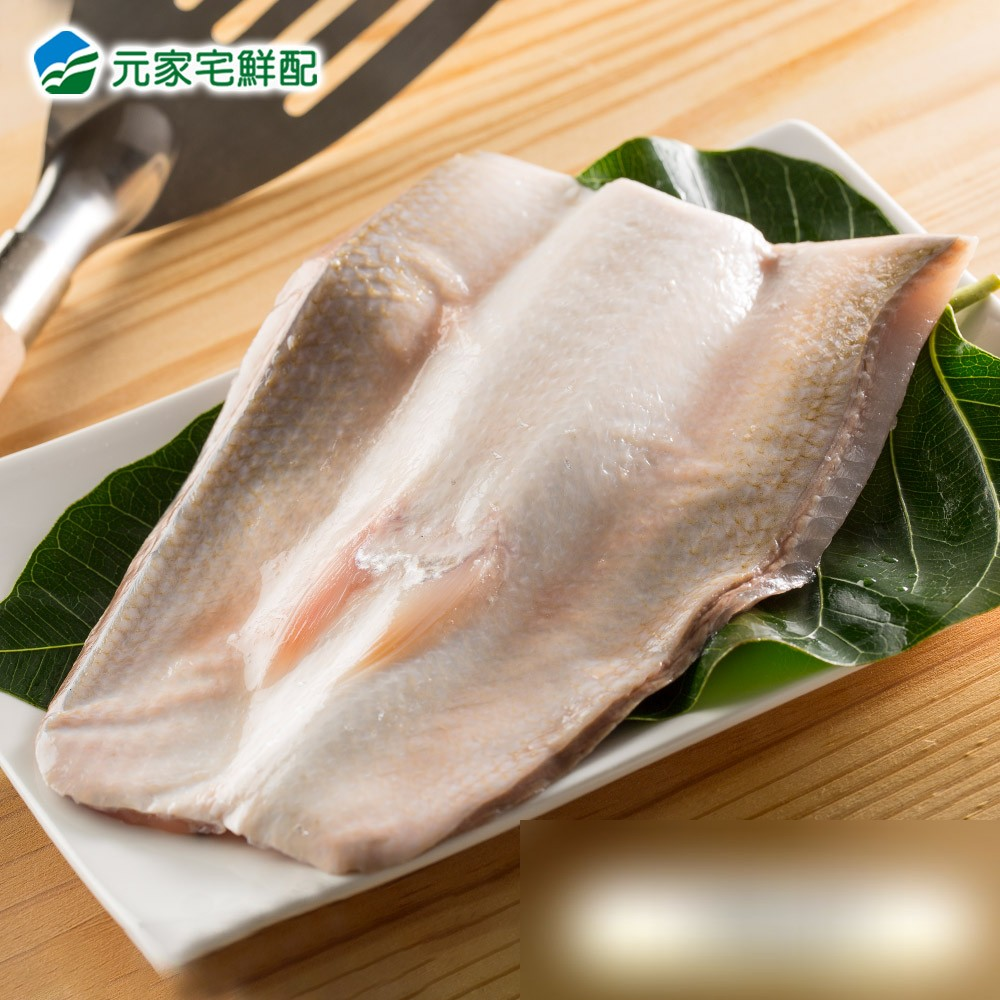
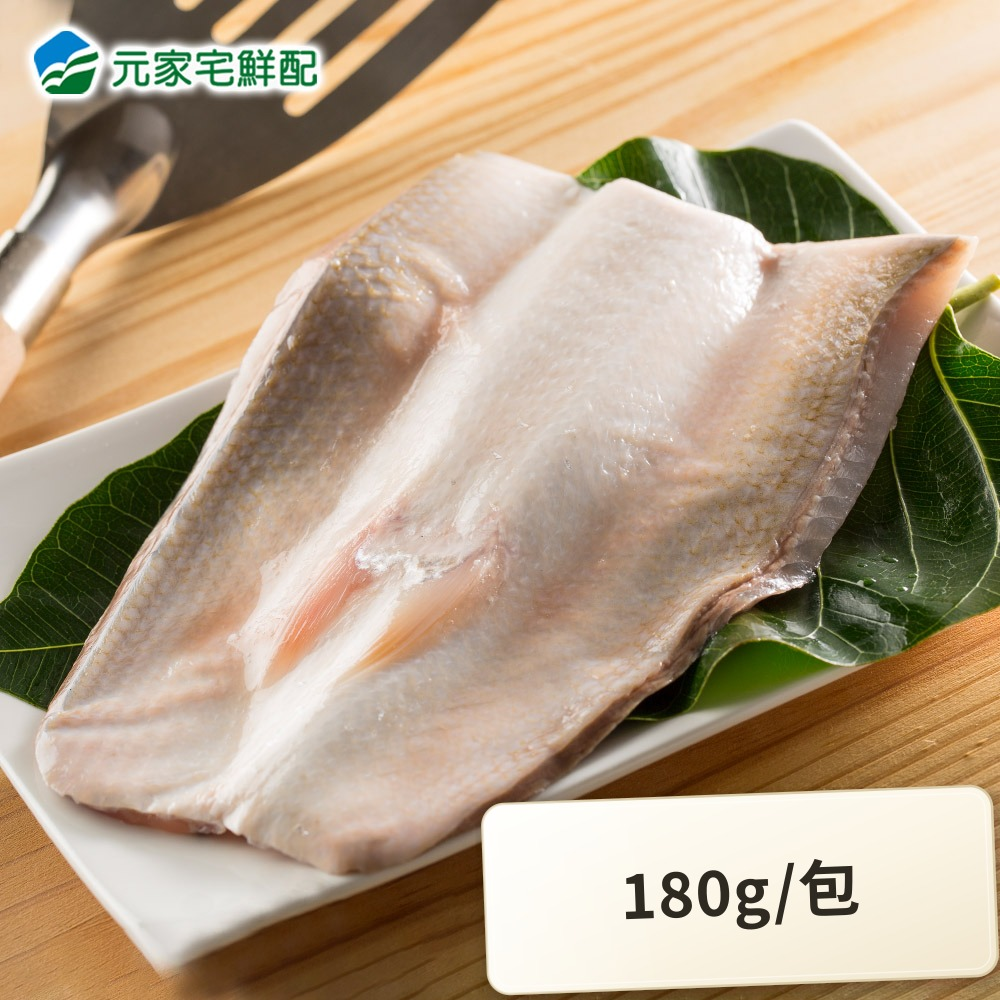
fix(b2c): 商品照片規格改用「規格貼紙覆蓋」，取代模糊處理
使用者回饋模糊處理看起來像「把錯誤的東西蓋起來」，不夠像真正商家會做的
標示更正，要求改用「像實體貼紙貼上去」的方式取代舊的錯誤重量。

處理方式：
- 從 git 歷史（954cf8a，模糊修正之前的原始版本）還原 4 張照片
  （虱目魚肚／鮭魚菲力／天使紅蝦／蛤蜊）的原始像素，不是在已經模糊過的
  版本上疊圖——避免貼紙陰影落在模糊像素上、邊緣不自然。
- 唯一正確來源是資料庫（b2c_products.specification），沒有修改 seed
  data／商品名稱／商品描述，也沒有用猜測的數字：
  虱目魚肚 180g/包、鮭魚菲力 200g/包、天使紅蝦 500g/盒、蛤蜊 500g/包。
- 用 SVG 畫出貼紙圖層（米白色紙張漸層底、細邊框、柔和陰影 filter、
  1.4°~2.2° 輕微旋轉模擬手貼上去的自然感），轉成透明背景 PNG 後疊圖到
  原圖同一位置（右下角，原本錯誤重量色塊所在處）。貼紙只覆蓋該區域，
  沒有蓋到商品本體、「元家宅鮮配」品牌 logo 或商品名稱。
- 圖片本身尺寸完全不變（仍是 1000x1000），不是裁切、不是純色塊。

逐張人工核對過「貼紙是否完整遮住舊重量」（含邊界區域的放大檢查，確認
沒有殘留舊數字）與「貼紙上的重量是否與資料庫規格完全一致」，兩項都
確認通過。

驗證方式：修改的是 public/ 底下實際被網站載入的圖片來源（不是未使用的
副本），完成後在本機 production build 上用 cache-busting fetch 直接比對
「伺服器實際回傳的位元組」與「本機檔案」完全一致，並在
/products/taiwan-milkfish-belly 等 4 個實際商品頁面截圖核對畫面顯示的
規格貼紙内容。另外 pnpm lint／build／test:contracts:static 全過，
pnpm test:e2e:b2c（axe-core WCAG A/AA + 375px/768px）52/52 全過。

product-photos.ts 的 mismatchNote 同步更新，記錄這次改用貼紙覆蓋而非
模糊的決策與理由。

Changed region(s): [[0.465, 0.775, 1.0, 1.0]]

diff --git a/src/lib/product-photos.ts b/src/lib/product-photos.ts
@@ -28,20 +28,28 @@ import type { ProductImageRef } from "@/lib/types/product";
  * src/app/(b2c)/products/page.tsx、products/[slug]/page.tsx、
  * cart/cart-page-client.tsx）。
  *
- * 2026-09-10（使用者重新考慮，改為裁修照片）：文字揭露終究只是「事後說明」，
+ * 2026-09-10（第一次修正：模糊處理）：文字揭露終究只是「事後說明」，
  * 客人還是會先看到照片上印著跟頁面文字不同的數字，容易先入為主覺得網站
- * 資料錯誤——改成直接處理照片本身：4 張印有規格色塊的照片，色塊區域（右下角
- * 一塊固定位置、固定大小的圓角矩形）都用該區域自己的像素做強力模糊處理
- * （sharp `.blur(30)`，把模糊過的區域疊回原圖同一位置），不是裁切或去背—
- * —裁切會改變圖片長寬比，用在目前 `aspect-square` 的顯示容器裡，
- * `object-cover` 裁切結果不可控；模糊則是圖片尺寸完全不變、只讓色塊上的
- * 文字看不清楚，看起來像自然的景深失焦，不像明顯的後製痕跡。鯖魚、小卷
- * 這兩張本來就沒有印刷規格，沒有動。
+ * 資料錯誤——改成直接處理照片本身：4 張印有規格色塊的照片，色塊區域用該
+ * 區域自己的像素做強力模糊處理，疊回原圖同一位置。
+ *
+ * 2026-09-10（同日，第二次修正：改用規格貼紙覆蓋，取代模糊）：使用者
+ * 認為模糊看起來像「把錯誤的東西蓋起來」，不夠像真正的商家標示——改成
+ * 在同一個位置（原本錯誤重量色塊所在處）覆蓋一張全新繪製的「商品規格
+ * 貼紙」：米白色紙張漸層底、細邊框、柔和陰影、些微旋轉角度（模擬手貼
+ * 上去的自然感），貼紙中央印著**這裡資料庫的正確重量**（跟下面
+ * `mismatchNote` 記錄的落差數字一一對應，非猜測）。做法是先用 SVG 畫出
+ * 貼紙（含陰影／漸層／邊框效果的 `<filter>`／`<linearGradient>`），
+ * 用 sharp 轉成帶透明背景的 PNG，再疊圖到「還原自 git 歷史、尚未被模糊
+ * 處理過的原始照片」上——不是疊在模糊版本上面（避免貼紙陰影落在已經
+ * 被模糊過的像素上，邊緣看起來不自然）。貼紙的圖片本身尺寸完全不變，
+ * 純粹是疊了一張新的視覺元素上去，不是裁切、不是純色塊、沒有動到 seed
+ * data／商品名稱／商品描述。鯖魚、小卷這兩張本來就沒有印刷規格，沒有動。
  *
  * 商品列表／詳情／購物車頁面的「商品照片為近似示意」揭露文字**維持不變，
- * 沒有拿掉**——規格重量的落差已經處理掉了，但產地／品種／處理方式的落差
- * （見下面各筆 `mismatchNote` 沒有印在照片上的那部分）依然存在，這些是
- * 光看照片看不出來的，揭露文字對這部分還是必要的，不是重複或多餘。
+ * 沒有拿掉**——規格重量的落差已經用貼紙處理掉了，但產地／品種／處理方式
+ * 的落差（見下面各筆 `mismatchNote` 沒有印在照片上的那部分）依然存在，
+ * 這些是光看照片看不出來的，揭露文字對這部分還是必要的，不是重複或多餘。
  */
 export interface ProductPhotoEntry {
   image: ProductImageRef;
@@ -56,7 +64,7 @@ export const PRODUCT_PHOTOS: Record<string, ProductPhotoEntry> = {
       alt: "台灣虱目魚肚示意照（近似商品，非正式商品攝影）",
     },
     mismatchNote:
-      "來源商品標示 160g/片，正式資料庫規格為 180g/包，包裝規格不完全一致。原始照片印有「160g/片」規格色塊，已於 2026-09-10 用模糊處理蓋掉，圖片現況已無此問題。",
+      "來源商品標示 160g/片，正式資料庫規格為 180g/包，包裝規格不完全一致。原始照片印有「160g/片」規格色塊，已於 2026-09-10 用「180g/包」規格貼紙覆蓋，圖片現況已顯示正確重量。",
   },
   "seasoned-mackerel": {
     image: {
@@ -72,7 +80,7 @@ export const PRODUCT_PHOTOS: Record<string, ProductPhotoEntry> = {
       alt: "挪威鮭魚菲力示意照（近似商品，非正式商品攝影）",
     },
     mismatchNote:
-      "來源商品產地為智利，正式資料庫產地為挪威，產地不一致。原始照片印有「175g/包」規格色塊，跟正式資料庫規格 200g/包 不一致，已於 2026-09-10 用模糊處理蓋掉，圖片現況已無此問題。",
+      "來源商品產地為智利，正式資料庫產地為挪威，產地不一致。原始照片印有「175g/包」規格色塊，跟正式資料庫規格 200g/包 不一致，已於 2026-09-10 用「200g/包」規格貼紙覆蓋，圖片現況已顯示正確重量。",
   },
   "argentine-red-shrimp": {
     image: {
@@ -80,7 +88,7 @@ export const PRODUCT_PHOTOS: Record<string, ProductPhotoEntry> = {
       alt: "阿根廷天使紅蝦示意照（近似商品，非正式商品攝影）",
     },
     mismatchNote:
-      "來源商品產地為馬來西亞（完美紅-白蝦），正式資料庫產地為阿根廷，產地與蝦種皆不完全一致。原始照片印有「600g/盒」規格色塊，跟正式資料庫規格 500g/盒 不一致，已於 2026-09-10 用模糊處理蓋掉，圖片現況已無此問題。",
+      "來源商品產地為馬來西亞（完美紅-白蝦），正式資料庫產地為阿根廷，產地與蝦種皆不完全一致。原始照片印有「600g/盒」規格色塊，跟正式資料庫規格 500g/盒 不一致，已於 2026-09-10 用「500g/盒」規格貼紙覆蓋，圖片現況已顯示正確重量。",
   },
   "taiwan-clam": {
     image: {
@@ -88,7 +96,7 @@ export const PRODUCT_PHOTOS: Record<string, ProductPhotoEntry> = {
       alt: "台灣鮮甜蛤蜊示意照（近似商品，非正式商品攝影）",
     },
     mismatchNote:
-      "來源照片為熟凍去殼花蛤肉的情境照，跟正式商品「台灣鮮甜蛤蜊」的帶殼／處理方式可能不完全一致。原始照片印有「1000g/包」規格色塊，跟正式資料庫規格 500g/包 不一致，已於 2026-09-10 用模糊處理蓋掉，圖片現況已無此問題。",
+      "來源照片為熟凍去殼花蛤肉的情境照，跟正式商品「台灣鮮甜蛤蜊」的帶殼／處理方式可能不完全一致。原始照片印有「1000g/包」規格色塊，跟正式資料庫規格 500g/包 不一致，已於 2026-09-10 用「500g/包」規格貼紙覆蓋，圖片現況已顯示正確重量。",
   },
   /**
    * 2026-09-04：`taiwan-squid`（台灣鮮甜小卷）是 9/4 最終回歸測試時，發現
